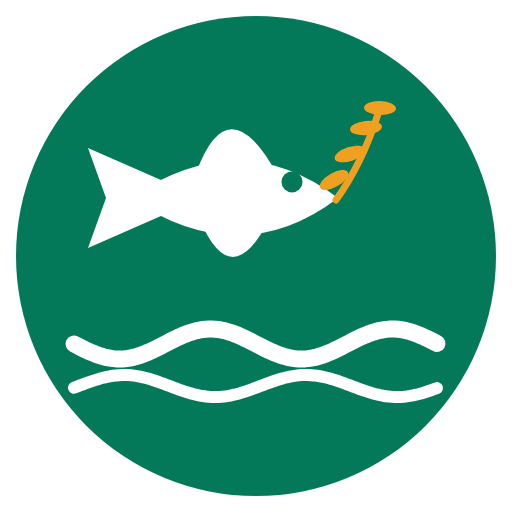
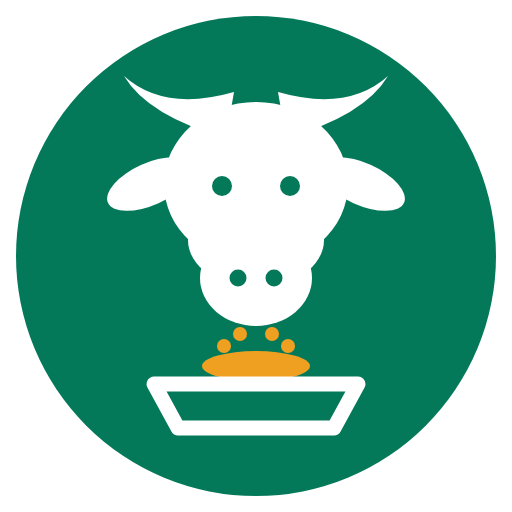
ব্র্যান্ড লোগো বদল — গবাদি পশুর খাদ্য ব্যবসার মার্ক (গরুর মাথা + খাদ্যের গামলা)
- আগের মাছ + নদীর ঢেউ + ধানের শীষের বদলে গরুর মাথা (শিং-কানসহ) +
  দানাভরা গামলা — একই ব্র্যান্ড-সবুজ (#04795a) গোল ব্যাজে
- লকআপের ট্যাগলাইন: 'ফিড • পোল্ট্রি • ফিশারিজ সরবরাহ' → 'গবাদি পশুর খাদ্য সরবরাহ'
- একই স্ক্রিপ্ট (build-brand-logo.mjs) থেকে অ্যাপ আইকনও তৈরি হয় —
  logo.png, favicon, apple-touch-icon, pwa-192/512 (মাস্কেবল-সেফ)

Changed region(s): [[0.125, 0.1562, 0.875, 0.875], [0.4062, 0.3438, 0.4688, 0.4062]]

diff --git a/src/lib/shopProfile.ts b/src/lib/shopProfile.ts
@@ -44,8 +44,9 @@ export const isOwnerPhone = (phone?: string): boolean => {
 }
 
 /**
- * দোকানের লোগো (`public/brand/`) — কর্ণফুলী নদীর ঢেউ + মাছ + ধানের শীষ,
- * ব্র্যান্ড সবুজে গোল ব্যাজ। প্যাড (রিপোর্ট/রসিদের লেটারহেড) এই লোগোই ব্যবহার করে।
+ * দোকানের লোগো (`public/brand/`) — গরুর মাথা + খাদ্যের গামলায় দানা,
+ * ব্র্যান্ড সবুজে গোল ব্যাজ (গবাদি পশুর খাদ্য ব্যবসার ব্র্যান্ড)।
+ * প্যাড (রিপোর্ট/রসিদের লেটারহেড) এই লোগোই ব্যবহার করে।
  *
  * - `karnaphuli-mark.png` — কেবল মার্ক (প্যাডের জন্য; নাম-ঠিকানা প্যাডেই টেক্সট হিসেবে থাকে)
  * - `karnaphuli-mark-mono.png` — সাদা-কালো ছাপার জন্য এক রঙের মার্ক

diff --git a/README.md b/README.md
@@ -29,8 +29,9 @@ Designed especially for small & medium shops in Bangladesh (feed, grocery, retai
 - **দুই মালিক, এক অ্যাপ** — `src/lib/shopProfile.ts`-এ `OWNER_PHONES`-এ থাকা প্রতিটি নম্বরের জন্য আলাদা **মালিক (owner)** আইডি তৈরি হয়; বর্তমানে **01811808294** ও **01821989717**। দুজনেরই অ্যাপে সমান পূর্ণ নিয়ন্ত্রণ (বিক্রি/ক্রয়/খরচ, স্টক, বাকি, সব রিপোর্ট ও লাভ, শাখা-কর্মী আইডি, প্যাড সেটিং)। প্রাথমিক পাসওয়ার্ড `123456` — প্রথম লগইনেই নিজের পাসওয়ার্ড সেট করতে হবে। নতুন নম্বর যোগ করতে চাইলে শুধু `OWNER_PHONES`-এ সেটা যোগ করলেই পরের বার অ্যাপ চালু হওয়ার সময় আইডি তৈরি হয়ে যাবে।
 - **পুরানো তারিখে এন্ট্রি (backdate)** — বিক্রি, ক্রয় (স্টক ইন) ও স্টক সমন্বয় করতে গিয়ে **তারিখ** ফিল্ড থেকে যেকোনো পুরানো তারিখ বেছে দেওয়া যায় (`max` = আজ, তাই ভবিষ্যতের তারিখ বন্ধ)। পুরানো তারিখ বাছলে সাথে সাথে বাংলায় সতর্কবার্তা ও "আজ" বাটন দেখায়; এন্ট্রি সেভ হওয়ার পর তারিখ আবার আজকে ফেরত যায়, ফলে পরের এন্ট্রি ভুলে পুরানো তারিখে চলে যায় না। রসিদ, ক্রেতার খাতা, দৈনিক/মাসিক লাভ ও রিপোর্টে এন্ট্রি সেই পুরানো তারিখেই বসে। একই নিয়মে খরচ ও বাকি আদায়েও আগে থেকেই তারিখ দেওয়া যায়।
 - **Fully Bangla UI**
-- **দোকানের লোগো** — কর্ণফুলী নামের সাথে মিলিয়ে ডিজাইন করা মার্ক: **কর্ণফুলী নদীর ঢেউ + মাছ + ধানের শীষ**, ব্র্যান্ড-সবুজ (#04795a) গোল ব্যাজে। `public/brand/`-এ তিনটি ফাইল — `karnaphuli-mark.png` (প্যাড/লেটারহেডে ব্যবহৃত), `karnaphuli-mark-mono.png` (সাদা-কালো ছাপা), `karnaphuli-lockup.png` (মার্ক + বাংলা নাম + ইংরেজি)। প্যাডে লোগো সাথে সাথে বসে; মালিক চাইলে **শাখা ও ব্যবস্থাপক → প্যাড** থেকে বদলাতে পারবেন। রিজেনারেট: `npm i --no-save @napi-rs/canvas @expo-google-fonts/noto-sans-bengali && node scripts/build-brand-logo.mjs`।
+- **দোকানের লোগো** — গবাদি পশুর খাদ্য ব্যবসার সাথে মিলিয়ে ডিজাইন করা মার্ক: **গরুর মাথা (শিং-কানসহ) + খাদ্যের গামলায় দানা**, ব্র্যান্ড-সবুজ (#04795a) গোল ব্যাজে। `public/brand/`-এ তিনটি ফাইল — `karnaphuli-mark.png` (প্যাড/লেটারহেডে ব্যবহৃত), `karnaphuli-mark-mono.png` (সাদা-কালো ছাপা), `karnaphuli-lockup.png` (মার্ক + বাংলা নাম + ইংরেজি)। একই স্ক্রিপ্ট থেকে অ্যাপের আইকনগুলোও (`logo.png`, `favicon.png`, `apple-touch-icon.png`, `pwa-192x192.png`, `pwa-512x512.png`) তৈরি হয়। প্যাডে লোগো সাথে সাথে বসে; মালিক চাইলে **শাখা ও ব্যবস্থাপক → প্যাড** থেকে বদলাতে পারবেন। রিজেনারেট: `npm i --no-save @napi-rs/canvas @expo-google-fonts/noto-sans-bengali && node scripts/build-brand-logo.mjs`।
 - **দোকানের ডিফল্ট পরিচিতি (প্যাড)** — ডিফল্ট দোকান **কর্ণফুলী সেলস সেন্টার** (ঠিকানা: পল্লি বিদ্যুৎ অফিসের পাশে, বুড়া মসজিদ রোড, আমুচিয়া, বোয়ালখালী, চট্টগ্রাম; মোবাইল: 01821989717, 01811808294)। অ্যাপ প্রথম চালু হতেই ডিফল্ট শাখায় বসে যায়, তাই রিপোর্ট/রসিদ/স্টেটমেন্টে সাথে সাথে নাম-ঠিকানা-ফোন দেখা যায়। ডিফল্ট মান `src/lib/shopProfile.ts`-এ; মালিক **শাখা ও ব্যবস্থাপক → প্যাড** থেকে বদলালে সেটিই চূড়ান্ত (কোনো ডিফল্ট ওভাররাইট করে না)। একাধিক নম্বর কমা দিয়ে লিখলে প্যাডে সবগুলো দেখায়, WhatsApp-এ প্রথম নম্বরে যায়।
+- **ডেটা ব্যাকআপ ও রিস্টোর (শুধু মালিক)** — **আরও → ডেটা ব্যাকআপ ও রিস্টোর** (`/backup`)। (১) **ব্যাকআপ ফাইল:** সব টেবিলের ডেটা এক JSON ফাইলে (`shopledger-backup-file-তারিখ-সময়.json`) ডাউনলোড — ফোন হারালে বা ব্রাউজারের ডেটা মুছলে এই ফাইল থেকেই পুরো হিসাব ফেরে। (২) **প্রতিদিনের অটো ব্যাকআপ:** প্রতিদিন অ্যাপ খুললে সেদিনের স্ন্যাপশট, দিনে অ্যাপ বন্ধ/মিনিমাইজ করলে সেদিনের সর্বশেষ অবস্থায় বদলে যায় (ঢাকা-সময়ে দিন গোনা; সর্বশেষ ৭ দিনের অটো + ১০টি নিজে নেওয়া স্ন্যাপশট থাকে)। (৩) **রিস্টোর:** যেকোনো স্ন্যাপশট বা ফাইল থেকে গণনা-প্রিভিউসহ নিশ্চিত করে পুরো ডেটা ফেরানো যায় (রিস্টোরে বর্তমান ডেটা বদলে যায়, সিঙ্ক outbox/cursor রিসেট হয়, তারপর আবার লগইন)। (৪) ৭+ দিন ফাইল ডাউনলোড না করলে পেজে হলুদ রিমাইন্ডার। কোর লজিক `src/lib/backup.ts`, টেস্ট `tests/backup.test.ts`। ⚠ অটো স্ন্যাপশট একই ব্রাউজারে থাকে — নিয়মিত ফাইল ডাউনলোড করে বাইরে (Google Drive/অন্য ফোন) রাখা জরুরি।
 
 ## Tech Stack
 
